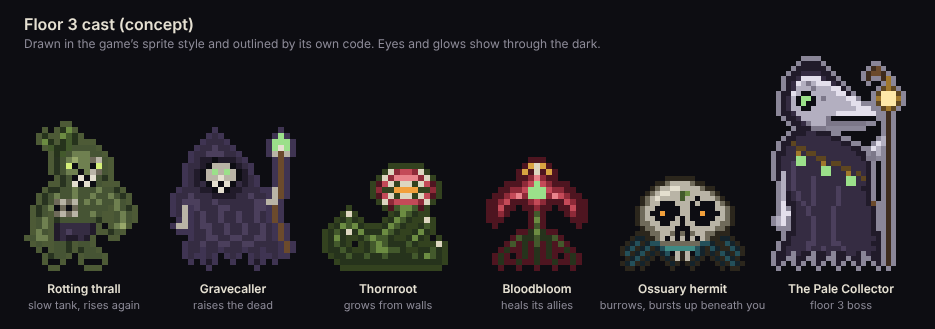
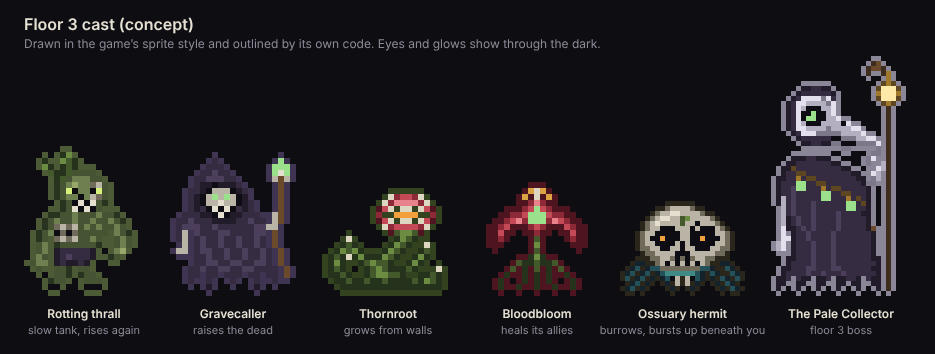
Redraw the Pale Collector's head as a beaked bird-skull mask
The beak was a single straight wedge, as tall as the skull, so it read as
a triangle. The head is now drawn from shapes: a round cranium in the
hood with a large eye socket and a brow crack, and a slender beak that
leaves the skull below the socket, tapers down to a hooked tip, with a
nostril slit and a shorter lower beak behind a dark gap. The lantern
hangs higher on the pole to make room.

Claude-Session: https://claude.ai/code/session_012TQcrycmCj7zmVkYuEq7Y7

diff --git a/tools/concept-floor3.js b/tools/concept-floor3.js
@@ -130,22 +130,27 @@ const CAST={
     '.sS.s...s.B.B.s...s.Ss.',
     'sS.s.....s...s.....s.Ss']},
   collector:{name:'The Pale Collector',eye:'#9be08a',glow:{O:'#9be08a',L:'#ffe9a8'},line:'#8a8698',r:15,map:[
-    '.....dddd.................',
-    '....dddddd.........wW.....',
-    '...ddeeeedd.......wWWw....',
-    '..ddeNNNNedd......w..wk...',
-    '..deNMmMNNNed.........k...',
-    '..deMMMmMMMNNd.......lkl..',
-    '.ddNM##MMMMMNNd.....lLLLl.',
-    '.deM#oo#MmMMMMNN....kLLLk.',
-    '.deM#o##MMMMMMMNN...lLLLl.',
-    '.deMM##MMMMMMMMMNNN..lkl..',
-    '.ddeMMMMMMMMNNNNNNNN..w...',
-    '..ddeMMMMMm#########..w...',
-    '...ddemMMMmmmmmmmm....w...',
-    '....dddmmm............w...',
-    '...dddeeddd...........w...',
-    '..ddeeeeeeedd........Mw...',
+    '...................wW.....',
+    '..................wWWw....',
+    '..................w..wk...',
+    '......................k...',
+    '.....................lkl..',
+    '.....ddeedd.........lLLLl.',
+    '....deeeeeed........kLLLk.',
+    '...deNNNNmNe........lLLLl.',
+    '..deNNMMMMmN.........lkl..',
+    '..deNM###MMN..........w...',
+    '..deN##o##MN..........w...',
+    '..deN#oo##MMN.........w...',
+    '..deNM###MMMM#N.......w...',
+    '..deNNMMMMmMMMMNN.....w...',
+    '...deNNNmmmmmMMMMN....w...',
+    '....deeeeee##mmmMMNN..w...',
+    '.....ddeeddmm###mmmmN.w...',
+    '.............mm.....m.w...',
+    '...................mm.w...',
+    '...dddeeddd.......mN..w...',
+    '..ddeeeeeeedd.....m..Mw...',
     '.ddleeeeeeeeedd.....NMw...',
     '.deelleeeeeeeeedd..NM.w...',
     'ddeekelleeeeeeeedd.mM.w...',
